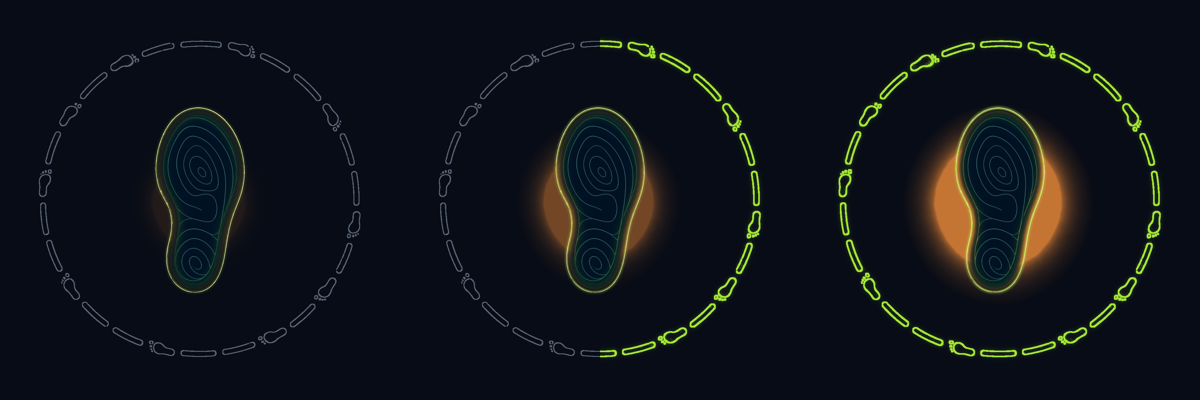
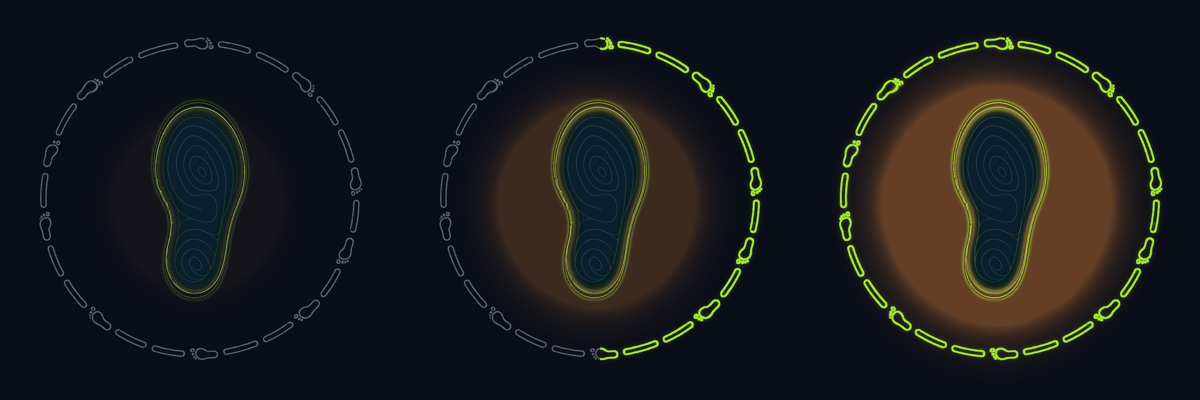
feat(runs): refine hold-to-start control from device feedback
On-device review of the previous build surfaced four fixes, all verified
on the M21 (ready + mid-hold) against docs/run-startpng.png:

- Bigger orbit, padded sole. Control 320→344dp and the sole 250→208dp, so
  the footprint ring reads as its own element with clear breathing room
  instead of a frame the sole touches.
- The reveal starts on a footprint, not a track dash. The source ring has
  a dash at 12 o'clock; the orbit art is now rotated 16° so a footprint
  sits at the top, where the clockwise fill begins.
- Softer, fainter orange backlight. Heavier blur in the asset (sigma 13,
  gamma 1.5) and a lower opacity ramp (0.06→0.46) give a diffuse ambient
  ember rather than a bright disc.
- Sole polish. The baked yellow rim is recoloured to heroAccent lime (so
  it matches the orbit, no more yellow edge), the interior is deepened
  toward a rich navy, and the cyan contour lines are lifted so the tread
  reads as crisp topography.

All changes stay in the reproducible generator
(feature/runs/tools/gen_hold_control_assets.py) and the Compose sizing;
the hold timing, completion latch, cancellation, haptics, TalkBack action
and reduced-motion path are untouched. App builds; captured on device.

diff --git a/native-android/feature/runs/src/main/java/dz/racedz/nativeapp/feature/runs/record/StartRunScreen.kt b/native-android/feature/runs/src/main/java/dz/racedz/nativeapp/feature/runs/record/StartRunScreen.kt
@@ -538,7 +538,9 @@ private fun HoldToBegin(onTriggered: () -> Unit) {
             modifier = Modifier
                 .fillMaxSize()
                 .graphicsLayer {
-                    alpha = 0.12f + progress * 0.73f
+                    // Low and soft: a faint ember at rest, a gentle warm wash by completion —
+                    // never a bright disc that competes with the sole or the orbit.
+                    alpha = 0.06f + progress * 0.40f
                     scaleX = glowScale
                     scaleY = glowScale
                 },
@@ -588,9 +590,10 @@ private fun HoldToBegin(onTriggered: () -> Unit) {
                 .alpha(0.35f + progress * 0.65f),
         )
 
-        // 5. The sole itself: dark navy, internal contour lines, never washed out by the glow.
+        // 5. The sole itself: dark navy, internal contour lines, and a lime (not yellow) rim, never
+        //    washed out by the glow.
         Image(
-            painter = painterResource(RunsR.drawable.zidrun_run_foot),
+            painter = painterResource(RunsR.drawable.zidrun_hold_sole_base),
             contentDescription = null,
             contentScale = ContentScale.Fit,
             modifier = Modifier
@@ -650,11 +653,15 @@ private fun HoldToBegin(onTriggered: () -> Unit) {
 }
 
 /** The hold control's overall diameter — dominant on screen, as in the reference. */
-private val CONTROL_SIZE = 320.dp
+private val CONTROL_SIZE = 344.dp
 
-/** The sole silhouette inside the control. Its ratio matches the exported foot art (≈1:2). */
-private val SOLE_HEIGHT = 250.dp
-private val SOLE_WIDTH = 125.dp
+/**
+ * The sole silhouette inside the control. Kept well inside the orbit so the footprint ring reads as
+ * a separate element with clear breathing room, not a frame the sole touches. Ratio ≈1:2, matching
+ * the exported foot art.
+ */
+private val SOLE_HEIGHT = 208.dp
+private val SOLE_WIDTH = 104.dp
 
 /** How long an aborted hold takes to wind back to nothing. */
 private const val RELEASE_MS = 220f

diff --git a/native-android/feature/runs/tools/gen_hold_control_assets.py b/native-android/feature/runs/tools/gen_hold_control_assets.py
@@ -33,8 +33,17 @@ ACCENT = (251, 146, 60)  # #FB923C
 MUTED = (120, 132, 150)  # muted blue-grey orbit
 
 
+# A footprint sits ~16 deg clockwise of top in the source ring; rotating the art by +16 deg brings
+# it to 12 o'clock so the clockwise reveal begins on a footprint rather than on a track dash.
+ORBIT_ROTATE_DEG = 16
+
 def alpha_of(name):
     return np.asarray(Image.open(os.path.join(SRC, name)).convert("RGBA"))[:, :, 3].astype(np.float32)
+
+def rotated_alpha(name):
+    im = Image.open(os.path.join(SRC, name)).convert("RGBA").rotate(
+        ORBIT_ROTATE_DEG, resample=Image.BICUBIC, center=None)
+    return np.asarray(im)[:, :, 3].astype(np.float32)
 
 
 def save(alpha, rgb, name):
@@ -46,24 +55,44 @@ def save(alpha, rgb, name):
 
 
 # Active orbit: bold filled lime footprints + a soft lime bloom, from the active-ring coverage.
-cov = alpha_of("orbit_ring_active.png")
+cov = rotated_alpha("orbit_ring_active.png")
 if cov.max() < 40:
-    cov = alpha_of("orbit_ring.png")
+    cov = rotated_alpha("orbit_ring.png")
 save(np.clip(grey_dilation(cov, size=5) * 1.3 + gaussian_filter(cov, sigma=7) * 1.5, 0, 255),
      HERO, "zidrun_hold_orbit_active.png")
 
 # Inactive orbit: identical geometry, muted blue-grey, dimmer than the active layer.
-cov = alpha_of("orbit_ring.png")
+cov = rotated_alpha("orbit_ring.png")
 save(np.clip(grey_dilation(cov, size=3) * 0.9, 0, 190), MUTED, "zidrun_hold_orbit_inactive.png")
 
 # Orange backlight: warm, soft, clean alpha, no pale/white core (gamma pulls the centre down).
-lum = gaussian_filter(alpha_of("orange_glow.png"), sigma=5)
+lum = gaussian_filter(alpha_of("orange_glow.png"), sigma=13)  # heavy blur = soft ambient
 lum = lum / lum.max()
-save(np.clip((lum ** 1.3) * 255, 0, 235), ACCENT, "zidrun_hold_orange_glow.png")
+save(np.clip((lum ** 1.5) * 255, 0, 210), ACCENT, "zidrun_hold_orange_glow.png")
 
-# Sole edge glow: a crisp lime rim hugging the foot silhouette (outer blur minus inner blur).
-sil = (alpha_of("foot.png") > 40).astype(np.float32) * 255
-rim = np.clip(gaussian_filter(sil, sigma=6) - gaussian_filter(sil, sigma=2) * 0.92, 0, 255) * 2.6
+# Sole base: the foot as-is, but its baked yellow rim recoloured to lime. "warmth" isolates the
+# warm rim/glow (high G, low B) from the cyan interior contours, and only those pixels shift.
+foot = np.asarray(Image.open(os.path.join(SRC, "foot.png")).convert("RGBA")).astype(np.float32)
+r, g, b, a = (foot[:, :, i] for i in range(4))
+warmth = np.clip((np.clip(np.minimum(r, g) - b, 0, 255) / 255.0) * 1.4, 0, 1) * (a / 255.0)
+base = foot.copy()
+for i in range(3):
+    base[:, :, i] = foot[:, :, i] * (1 - warmth) + HERO[i] * warmth
+# Premium sole: deepen the interior toward a rich navy, and lift the cyan contour lines so they
+# read as crisp topographic tread rather than a murky wash. "coolness" isolates the cyan interior.
+coolness = np.clip((np.clip(b - g, 0, 255) / 255.0) * 2.0, 0, 1) * (a / 255.0) * (1 - warmth)
+interior = (1 - warmth) * (a / 255.0)
+NAVY = np.array([10, 20, 34], np.float32)
+CYAN = np.array([120, 200, 210], np.float32)
+for i in range(3):
+    base[:, :, i] = base[:, :, i] * (1 - interior * 0.35) + NAVY[i] * (interior * 0.35)
+    base[:, :, i] = base[:, :, i] * (1 - coolness * 0.5) + CYAN[i] * (coolness * 0.5)
+Image.fromarray(np.clip(base, 0, 255).astype(np.uint8), "RGBA").save(
+    os.path.join(OUT, "zidrun_hold_sole_base.png"))
+
+# Sole edge glow: a bright lime rim hugging the foot silhouette (outer blur minus inner blur).
+sil = (a > 40).astype(np.float32) * 255
+rim = np.clip(gaussian_filter(sil, sigma=8) - gaussian_filter(sil, sigma=2) * 0.9, 0, 255) * 3.2
 save(rim, HERO, "zidrun_hold_sole_edge_glow.png")
 
 print("regenerated zidrun_hold_* into", os.path.relpath(OUT, HERE))
